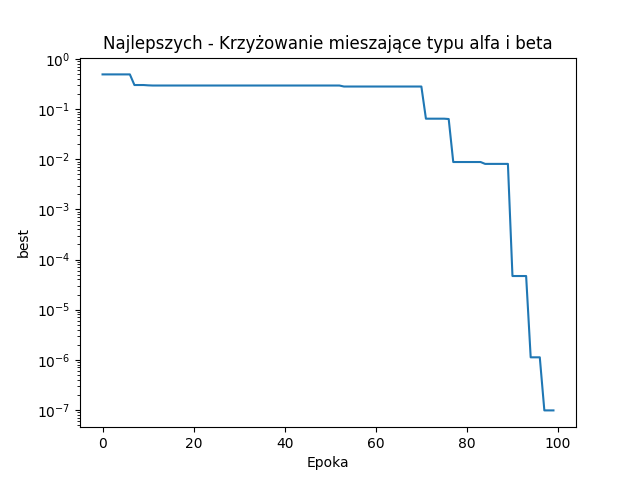
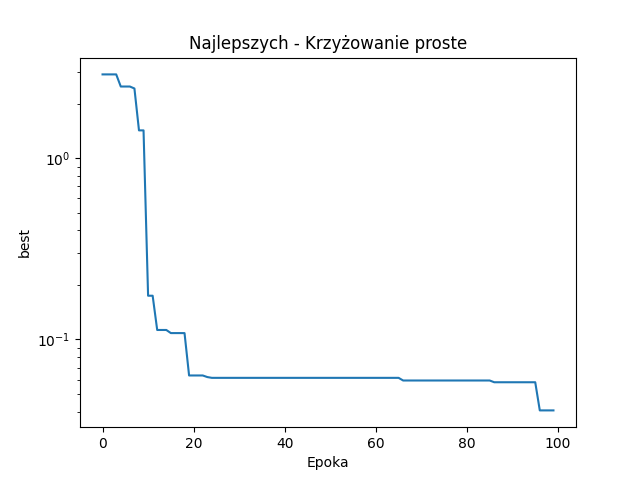
simple crossover

diff --git a/Helpers/crossingMethods.py b/Helpers/crossingMethods.py
@@ -136,14 +136,21 @@ class SimpleCrossover(CrossoverMethod):
     def crossover(self, pop: np.ndarray, alpha=0.2):
         n_pop, n_dim = pop.shape
         parents = pop[np.random.choice(n_pop, 2, replace=False)]
-        gen_idx = np.random.randint(0, n_dim)
-        p1_gen = parents[0, gen_idx]
-        p2_gen = parents[1, gen_idx]
-        child1 = parents[0]
-        child2 = parents[1]
-        child1[gen_idx] = (1 - alpha) * p1_gen + alpha * p2_gen
-        child2[gen_idx] = (1 - alpha) * p2_gen + alpha * p1_gen
+        print(parents)
 
+        crossing_point = np.random.randint(1, len(parents[0]))
+        child1 = []
+        child2 = []
+
+        for i in range(0, crossing_point):
+            child1.append(parents[0][i])
+            child2.append(parents[1][i])
+        for i in range(crossing_point, len(parents[0])):
+            child1.append(alpha * parents[1][i] + (1 - alpha) * parents[0][i])
+            child2.append(alpha * parents[0][i] + (1 - alpha) * parents[1][i])
+         
+        print("DZIECKO1: ", child1)
+        print("DZIECKO2: ", child2)
         return np.array([child1, child2])
     
 class BlendCrossoverAlfa(CrossoverMethod):
